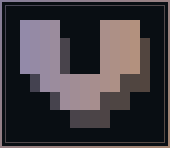
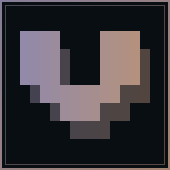
feat: make v asset square
* add square asset layout support

* regenerate v outputs with centered content

diff --git a/internal/generator/svg.go b/internal/generator/svg.go
@@ -15,11 +15,12 @@ const (
 )
 
 func renderSVG(item asset, cells []cell, cols int, rows int) []byte {
-	width, height := assetDimensions(item, cols, rows)
-	translate := item.Padding - cellInset
+	layout := assetLayout(item, cols, rows)
+	translateX := layout.OffsetX - cellInset
+	translateY := layout.OffsetY - cellInset
 
 	var out bytes.Buffer
-	fprintf(&out, "<svg xmlns=\"http://www.w3.org/2000/svg\" width=\"%d\" height=\"%d\" viewBox=\"0 0 %d %d\" role=\"img\" aria-labelledby=\"title desc\" shape-rendering=\"crispEdges\">\n", width, height, width, height)
+	fprintf(&out, "<svg xmlns=\"http://www.w3.org/2000/svg\" width=\"%d\" height=\"%d\" viewBox=\"0 0 %d %d\" role=\"img\" aria-labelledby=\"title desc\" shape-rendering=\"crispEdges\">\n", layout.Width, layout.Height, layout.Width, layout.Height)
 	fprintf(&out, "  <title id=\"title\">%s ANSI art</title>\n", html.EscapeString(item.Name))
 	fprintf(&out, "  <desc id=\"desc\">Cell-accurate SVG rendering of terminal ANSI art generated by cmd/generate-assets.</desc>\n")
 	fprintf(&out, "  <defs>\n")
@@ -30,9 +31,9 @@ func renderSVG(item asset, cells []cell, cols int, rows int) []byte {
 	fprintf(&out, "    </linearGradient>\n")
 	fprintf(&out, "  </defs>\n")
 	fprintf(&out, "  <rect width=\"100%%\" height=\"100%%\" fill=\"%s\"/>\n", backgroundColor)
-	fprintf(&out, "  <rect x=\"1\" y=\"1\" width=\"%d\" height=\"%d\" fill=\"none\" stroke=\"url(#border-gradient)\" stroke-width=\"2\" opacity=\"0.9\"/>\n", width-2, height-2)
-	fprintf(&out, "  <rect x=\"5\" y=\"5\" width=\"%d\" height=\"%d\" fill=\"none\" stroke=\"url(#border-gradient)\" stroke-width=\"1\" opacity=\"0.45\"/>\n", width-10, height-10)
-	fprintf(&out, "  <g transform=\"translate(%d %d)\">\n", translate, translate)
+	fprintf(&out, "  <rect x=\"1\" y=\"1\" width=\"%d\" height=\"%d\" fill=\"none\" stroke=\"url(#border-gradient)\" stroke-width=\"2\" opacity=\"0.9\"/>\n", layout.Width-2, layout.Height-2)
+	fprintf(&out, "  <rect x=\"5\" y=\"5\" width=\"%d\" height=\"%d\" fill=\"none\" stroke=\"url(#border-gradient)\" stroke-width=\"1\" opacity=\"0.45\"/>\n", layout.Width-10, layout.Height-10)
+	fprintf(&out, "  <g transform=\"translate(%d %d)\">\n", translateX, translateY)
 
 	for _, c := range cells {
 		opacity := ""
@@ -51,6 +52,27 @@ func fprintf(out *bytes.Buffer, format string, args ...any) {
 	_, _ = fmt.Fprintf(out, format, args...)
 }
 
-func assetDimensions(item asset, cols int, rows int) (int, int) {
-	return cols*cellWidth + item.Padding*2, rows*cellHeight + item.Padding*2
+type assetRenderLayout struct {
+	Width   int
+	Height  int
+	OffsetX int
+	OffsetY int
+}
+
+func assetLayout(item asset, cols int, rows int) assetRenderLayout {
+	contentWidth := cols * cellWidth
+	contentHeight := rows * cellHeight
+	width := contentWidth + item.Padding*2
+	height := contentHeight + item.Padding*2
+	if item.Square {
+		width = max(width, height)
+		height = width
+	}
+
+	return assetRenderLayout{
+		Width:   width,
+		Height:  height,
+		OffsetX: (width - contentWidth) / 2,
+		OffsetY: (height - contentHeight) / 2,
+	}
 }

diff --git a/internal/generator/svg_test.go b/internal/generator/svg_test.go
@@ -30,3 +30,19 @@ func TestRenderSVGUsesComputedDimensionsAndMetadata(t *testing.T) {
 		t.Fatalf("SVG still references removed shell scripts:\n%s", svg)
 	}
 }
+
+func TestRenderSVGSquareAssetUsesEqualDimensionsAndCentersContent(t *testing.T) {
+	svg := string(renderSVG(asset{Name: "unit", Padding: 20, Square: true}, []cell{
+		{X: 0, Y: 0, Color: "#010203"},
+	}, 2, 1))
+
+	wants := []string{
+		`width="60" height="60" viewBox="0 0 60 60"`,
+		`<g transform="translate(12 13)">`,
+	}
+	for _, want := range wants {
+		if !strings.Contains(svg, want) {
+			t.Fatalf("SVG does not contain %q\n%s", want, svg)
+		}
+	}
+}

diff --git a/internal/generator/raster_test.go b/internal/generator/raster_test.go
@@ -32,6 +32,20 @@ func TestRenderRasterUsesComputedDimensionsAndCells(t *testing.T) {
 	}
 }
 
+func TestRenderRasterSquareAssetUsesEqualDimensionsAndCentersContent(t *testing.T) {
+	img := renderRaster(asset{Name: "unit", Padding: 20, Square: true}, []cell{
+		{X: 0, Y: 0, Color: "#010203"},
+	}, 2, 1)
+
+	if got := img.Bounds(); got.Dx() != 60 || got.Dy() != 60 {
+		t.Fatalf("bounds = %v, want 60x60", got)
+	}
+
+	if got := img.RGBAAt(20, 21); got != (color.RGBA{R: 1, G: 2, B: 3, A: 255}) {
+		t.Fatalf("centered cell = %#v, want #010203", got)
+	}
+}
+
 func TestParseHexRGBRejectsInvalidColor(t *testing.T) {
 	if _, err := parseHexRGB("nope"); err == nil {
 		t.Fatal("parseHexRGB returned nil error for invalid color")

diff --git a/internal/generator/raster.go b/internal/generator/raster.go
@@ -19,12 +19,12 @@ type rgb struct {
 }
 
 func renderRaster(item asset, cells []cell, cols int, rows int) *image.RGBA {
-	width, height := assetDimensions(item, cols, rows)
-	img := image.NewRGBA(image.Rect(0, 0, width, height))
-	fillRect(img, 0, 0, width, height, mustRGB(backgroundColor), 1)
+	layout := assetLayout(item, cols, rows)
+	img := image.NewRGBA(image.Rect(0, 0, layout.Width, layout.Height))
+	fillRect(img, 0, 0, layout.Width, layout.Height, mustRGB(backgroundColor), 1)
 
-	drawStrokeRect(img, 0, 0, width, height, 2, 0.9)
-	drawStrokeRect(img, 5, 5, width-10, height-10, 1, 0.45)
+	drawStrokeRect(img, 0, 0, layout.Width, layout.Height, 2, 0.9)
+	drawStrokeRect(img, 5, 5, layout.Width-10, layout.Height-10, 1, 0.45)
 
 	for _, c := range cells {
 		opacity := 1.0
@@ -33,7 +33,7 @@ func renderRaster(item asset, cells []cell, cols int, rows int) *image.RGBA {
 				opacity = parsed
 			}
 		}
-		fillRect(img, item.Padding+c.X*cellWidth, item.Padding+c.Y*cellHeight, cellWidth, cellHeight, mustRGB(c.Color), opacity)
+		fillRect(img, layout.OffsetX+c.X*cellWidth, layout.OffsetY+c.Y*cellHeight, cellWidth, cellHeight, mustRGB(c.Color), opacity)
 	}
 
 	return img

diff --git a/internal/generator/generator.go b/internal/generator/generator.go
@@ -19,10 +19,11 @@ type asset struct {
 	Text    string
 	OutPath string
 	Padding int
+	Square  bool
 }
 
 var defaultAssets = []asset{
-	{Name: "v", Text: "v", OutPath: "out/v.svg", Padding: 20},
+	{Name: "v", Text: "v", OutPath: "out/v.svg", Padding: 20, Square: true},
 	{Name: "vimcolorschemes", Text: "vimcolorschemes", OutPath: "out/vimcolorschemes.svg", Padding: 40},
 }
 